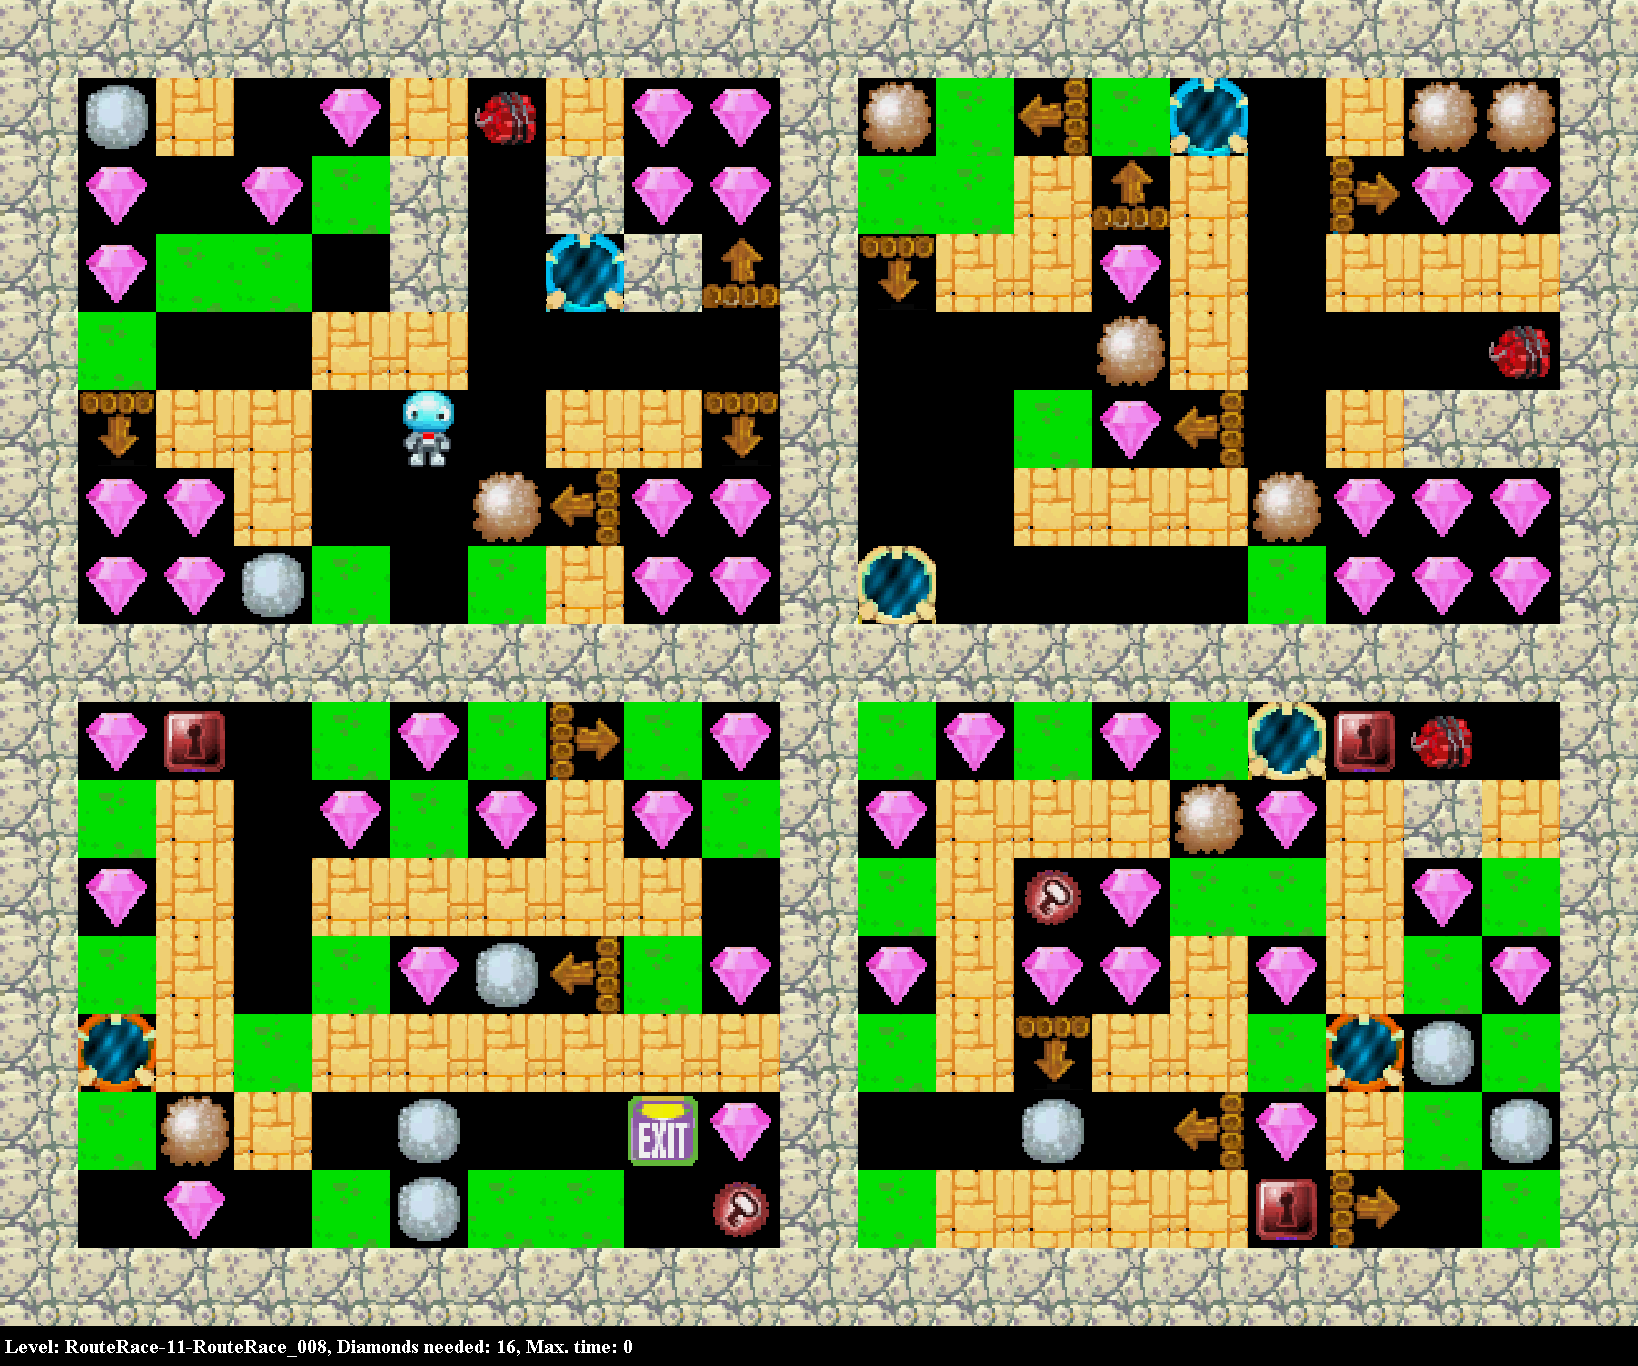
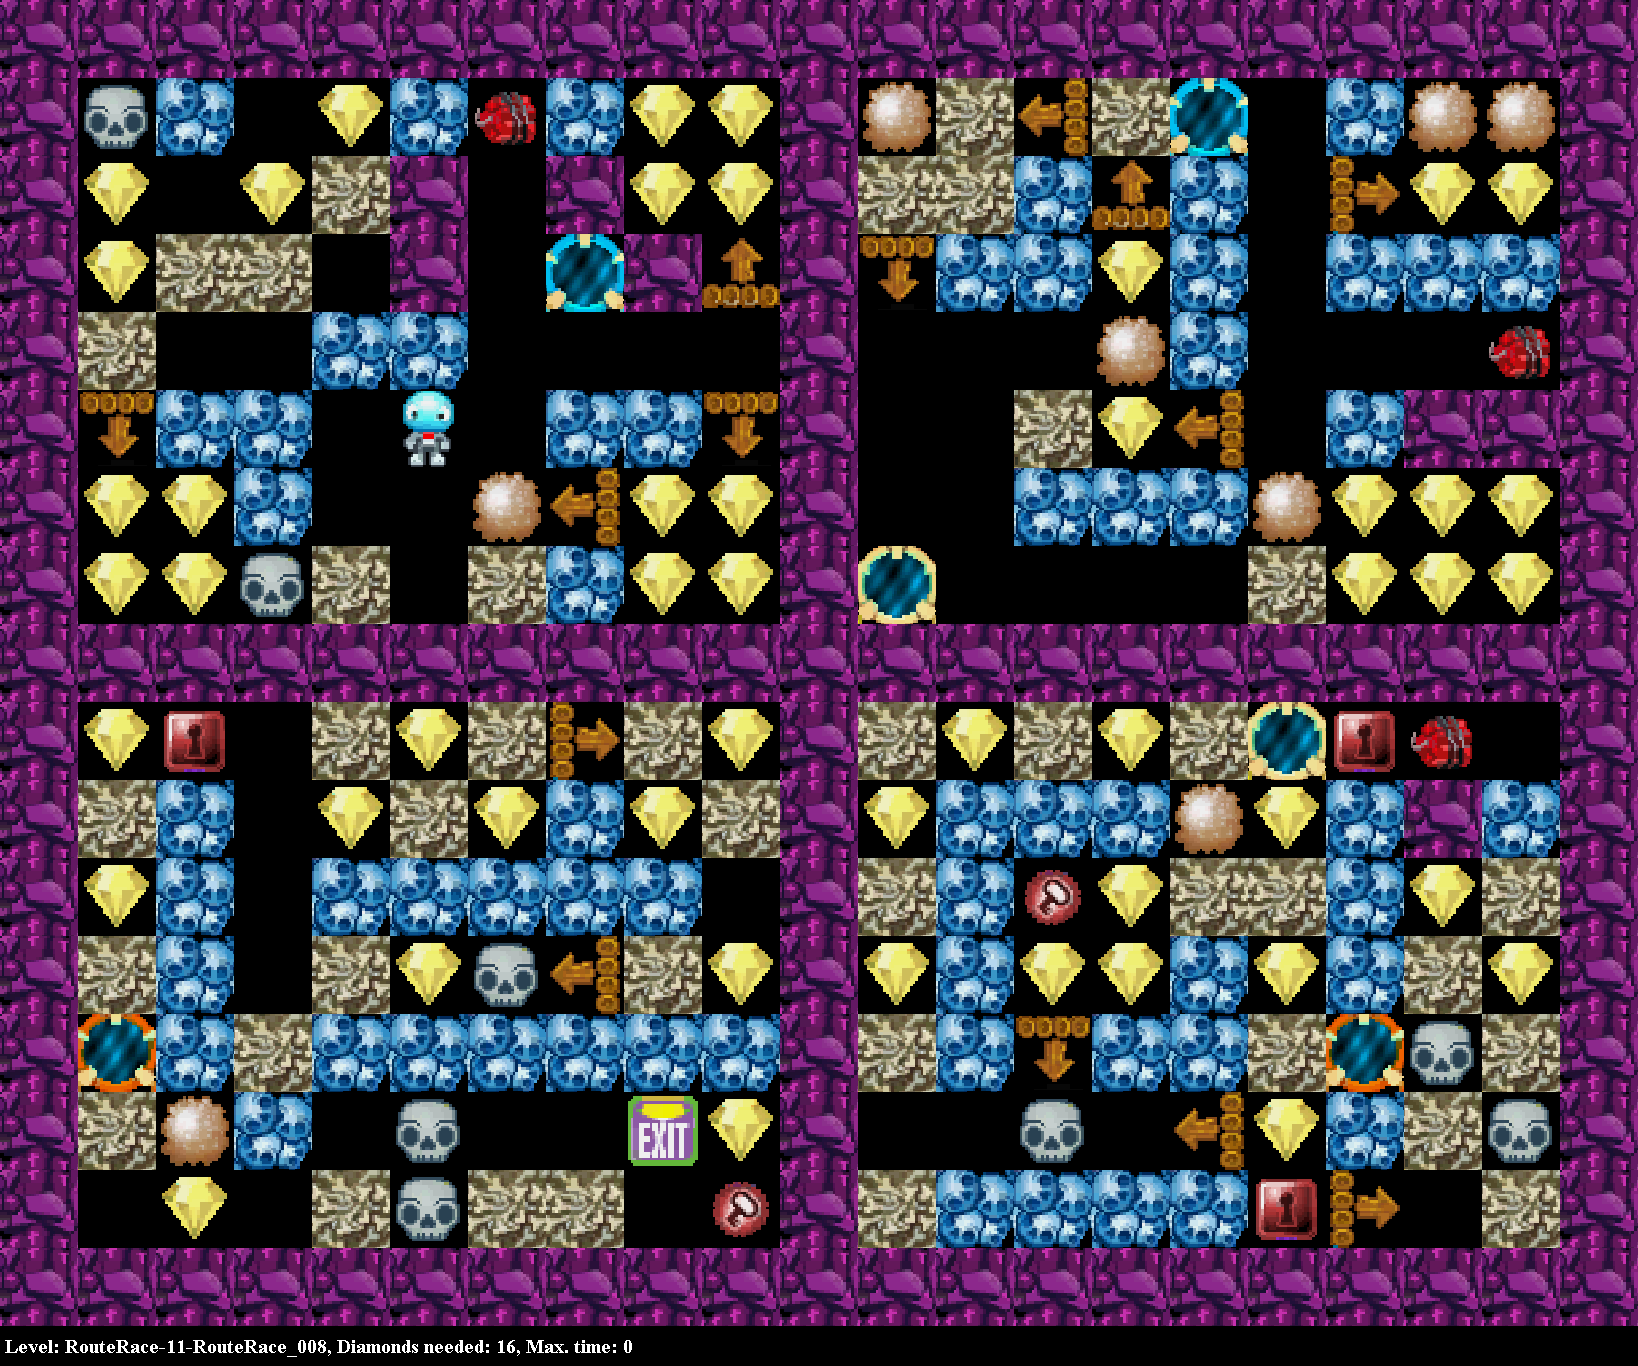
read world from level instead of filename
RouteRace levels don't have the world in their filename

diff --git a/src/bdmap/MakeMap.java b/src/bdmap/MakeMap.java
@@ -22,6 +22,7 @@ import util.ImageUtil2;
 public class MakeMap
 {
     public static final int TILE_SIZE = 78;
+    public static final int WORLD = 0x2c;
     public static final int WIDTH = 0x40;
     public static final int HEIGHT = 0x42;
     public static final int[] LEVEL_DATA_HEADER = { 0x4C, 0x45, 0x44, 0x00 }; // "LDL"
@@ -250,13 +251,14 @@ public class MakeMap
         
         levelsIniFile = getArgumentString(argList, "levelsIniFile");
         toc = getArgumentString(argList, "toc");
-        
+        SortedSet<String> sortedFiles = new TreeSet<>();
         for (String file : argList)
         {
-            convertLevelToMap(file);
+            String pngFilename = convertLevelToMap(file);
+            sortedFiles.add(pngFilename);
         }
         
-        createHtmlToc(argList);
+        createHtmlToc(sortedFiles);
         
         long endTime = System.currentTimeMillis();
         long millis = endTime - startTime;
@@ -285,24 +287,40 @@ public class MakeMap
         WORLD1, WORLD2, WORLD3, WORLD4
     }
 
-    private static World getWorld(String filename)
+    private static World getWorld(int world)
     {
-        String f = FileUtil2.getBasename(filename);
-        if (f.toLowerCase().contains("jungle"))
+        switch (world)
+        {
+        case 1:
             return World.WORLD1;
-        if (f.toLowerCase().contains("lava"))
+        case 2:
             return World.WORLD2;
-        if (f.toLowerCase().contains("water"))
+        case 3:
             return World.WORLD3;
-        if (f.toLowerCase().contains("nether"))
+        case 4:
             return World.WORLD4;
-        return World.WORLD1;
+        case 5:
+            return World.WORLD1; // boss stage
+        case 6:
+            return World.WORLD2; // boss stage
+        case 7:
+            return World.WORLD3; // boss stage
+        case 8:
+            return World.WORLD4; // boss stage
+        default:
+            throw new IllegalArgumentException("Illegal world found: " + world);
+        }
     }
 
-    private static void convertLevelToMap(String filename)
+    /**
+     * Convert level to PNG map file.
+     * @param filename level.bdl
+     * @return PNG filename
+     */
+    private static String convertLevelToMap(String filename)
     {
-        World world = getWorld(filename);
         byte[] level = FileUtil2.readFile(filename);
+        World world= getWorld(level[WORLD]);
         int width = level[WIDTH];
         int height = level[HEIGHT];
         int level_start = indexOf(level, toByte(LEVEL_DATA_HEADER)) + LEVEL_DATA_HEADER.length;
@@ -386,7 +404,7 @@ public class MakeMap
         }
 
         // add description footer
-        String renamedFile = renameLevelAccordingToIniFile(filename);
+        String renamedFile = renameLevelAccordingToIniFile(filename, world);
         String footer = "Level: " + renamedFile + ", Diamonds needed: " + diamonds + ", Max. time: " + time;
         BufferedImage imageWithFooter = new BufferedImage(img.getWidth(), img.getHeight() + font.getSize() * 2, BufferedImage.TYPE_INT_RGB);
         imageWithFooter.getGraphics().drawImage(img, 0, 0, img.getWidth(), img.getHeight(), null);
@@ -399,6 +417,8 @@ public class MakeMap
         System.out.println("Writing map file: " + renamedFile  + ".png");
         ImageUtil2.writeImage(imageWithFooter, renamedFile + ".png");
         System.out.println();
+        
+        return renamedFile;
     }
 
     private static void addTile(BufferedImage img, int x, int y, int element, World world)
@@ -938,9 +958,8 @@ public class MakeMap
         }
     }
 
-    private static String renameLevelAccordingToIniFile(String levelFilename)
+    private static String renameLevelAccordingToIniFile(String levelFilename, World world)
     {
-        World world = getWorld(levelFilename);
         String type = ""; // to add prefix RouteRace, DoubleDash or TimeTrial
                           // to get a natural file order  
         String f = FileUtil2.getBasename(levelFilename); // examples: "PlanetTour_JungleWorld_01", "BossLevel_Jungle.bdl", "RouteRace_000a.bdl"
@@ -990,7 +1009,7 @@ public class MakeMap
         return null;
     }
     
-    private static void createHtmlToc(List<String> files)
+    private static void createHtmlToc(SortedSet<String> sortedFiles)
     {
         if (toc == null)
         {
@@ -1013,12 +1032,6 @@ public class MakeMap
                 """;
         buf.append(header);
         
-        SortedSet<String> sortedFiles = new TreeSet<>();        
-        for (String file : files)
-        {
-            String renamedFile = renameLevelAccordingToIniFile(file);
-            sortedFiles.add(renamedFile);
-        }
         for (String file : sortedFiles)
         {
             buf.append("<a href=\""+ file + ".png\">" + file + "</a><br>\n");
